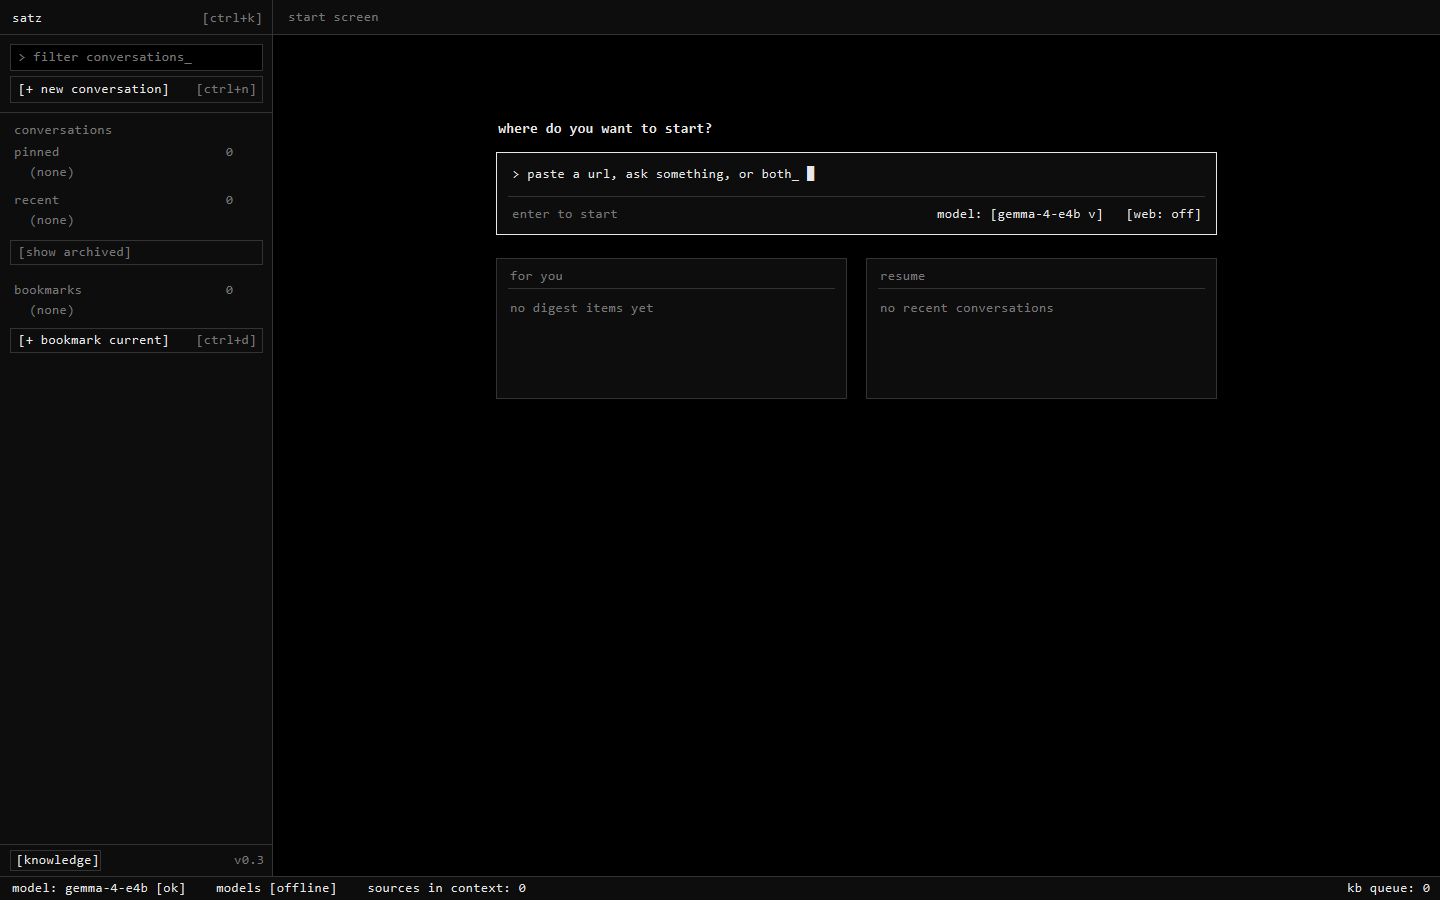
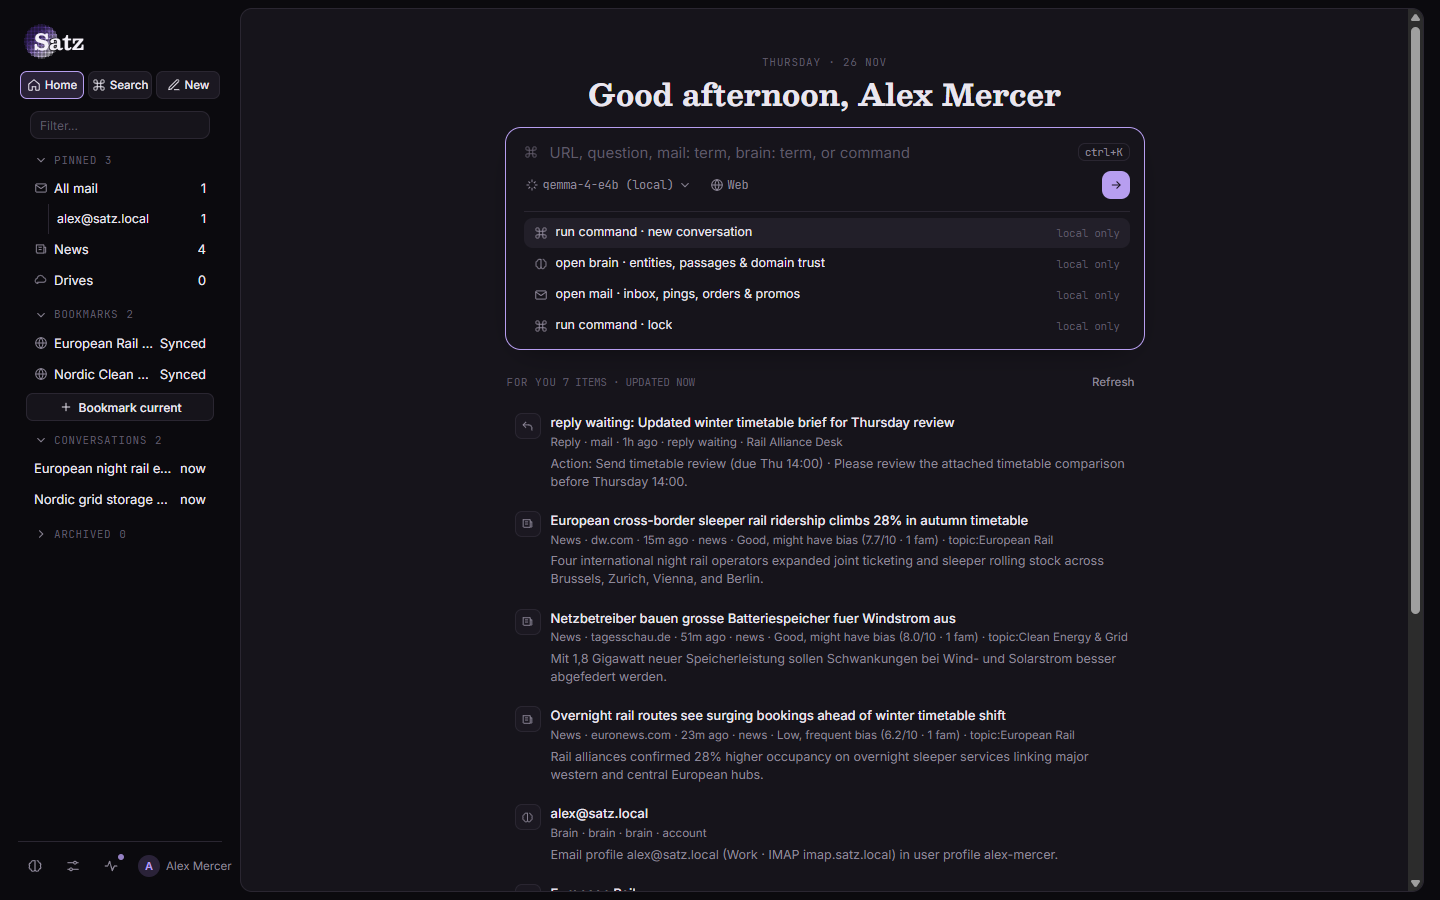
docs: update README screenshots to current UI (Home & Satz News)

diff --git a/README.md b/README.md
@@ -4,7 +4,14 @@
 
 Built on **Tauri v2** (`WebView2` on Windows 11, `WKWebView` on macOS) with a modular **TypeScript** frontend, **Rust** backend, and local **Python** AI sidecar bundling **Planck 3.0** (`planck_vendor/` + sharded `planck13` encoder and `xreader_planck` reader weights), **Gemma / Qwen / HuggingFace** local models (`satz_local_models.py`), and a local **DistilBERT** 4-label mail classifier, Satz turns browsed pages, synced emails, news clusters, cloud drive metadata, and Brain entities into grounded sources cited inline with `[1]`, `[2]` and `[B1]`, `[B2]`.
 
-![Satz Shell](docs/screenshots/m1.png)
+![Satz Home & Command Bar](docs/screenshots/m1.png)
+
+<details>
+<summary>Satz News: Corroborated clusters, pinned Stories, Perspectives & News Settings</summary>
+
+![Satz News](docs/screenshots/news_preview.png)
+
+</details>
 
 ---
 
@@ -106,6 +113,7 @@ satz-browser/
 │   ├── NOTES_v0.3.md .. NOTES_v0.9.md
 │   ├── design/DESIGN_SYSTEM.md       # UI tokens, typography, layout & hygiene rules
 │   ├── evals/                        # Replayable harness & prompt-injection evals
+│   ├── screenshots/                  # Current shell & News screenshots (`m1.png`, `news_preview.png`)
 │   └── smoke/                        # Fixtures & verification captures
 ├── scripts/
 │   ├── prepare_sidecar_bundle.py     # Stages sidecar, shipped Planck models & Python runtime for release bundles
